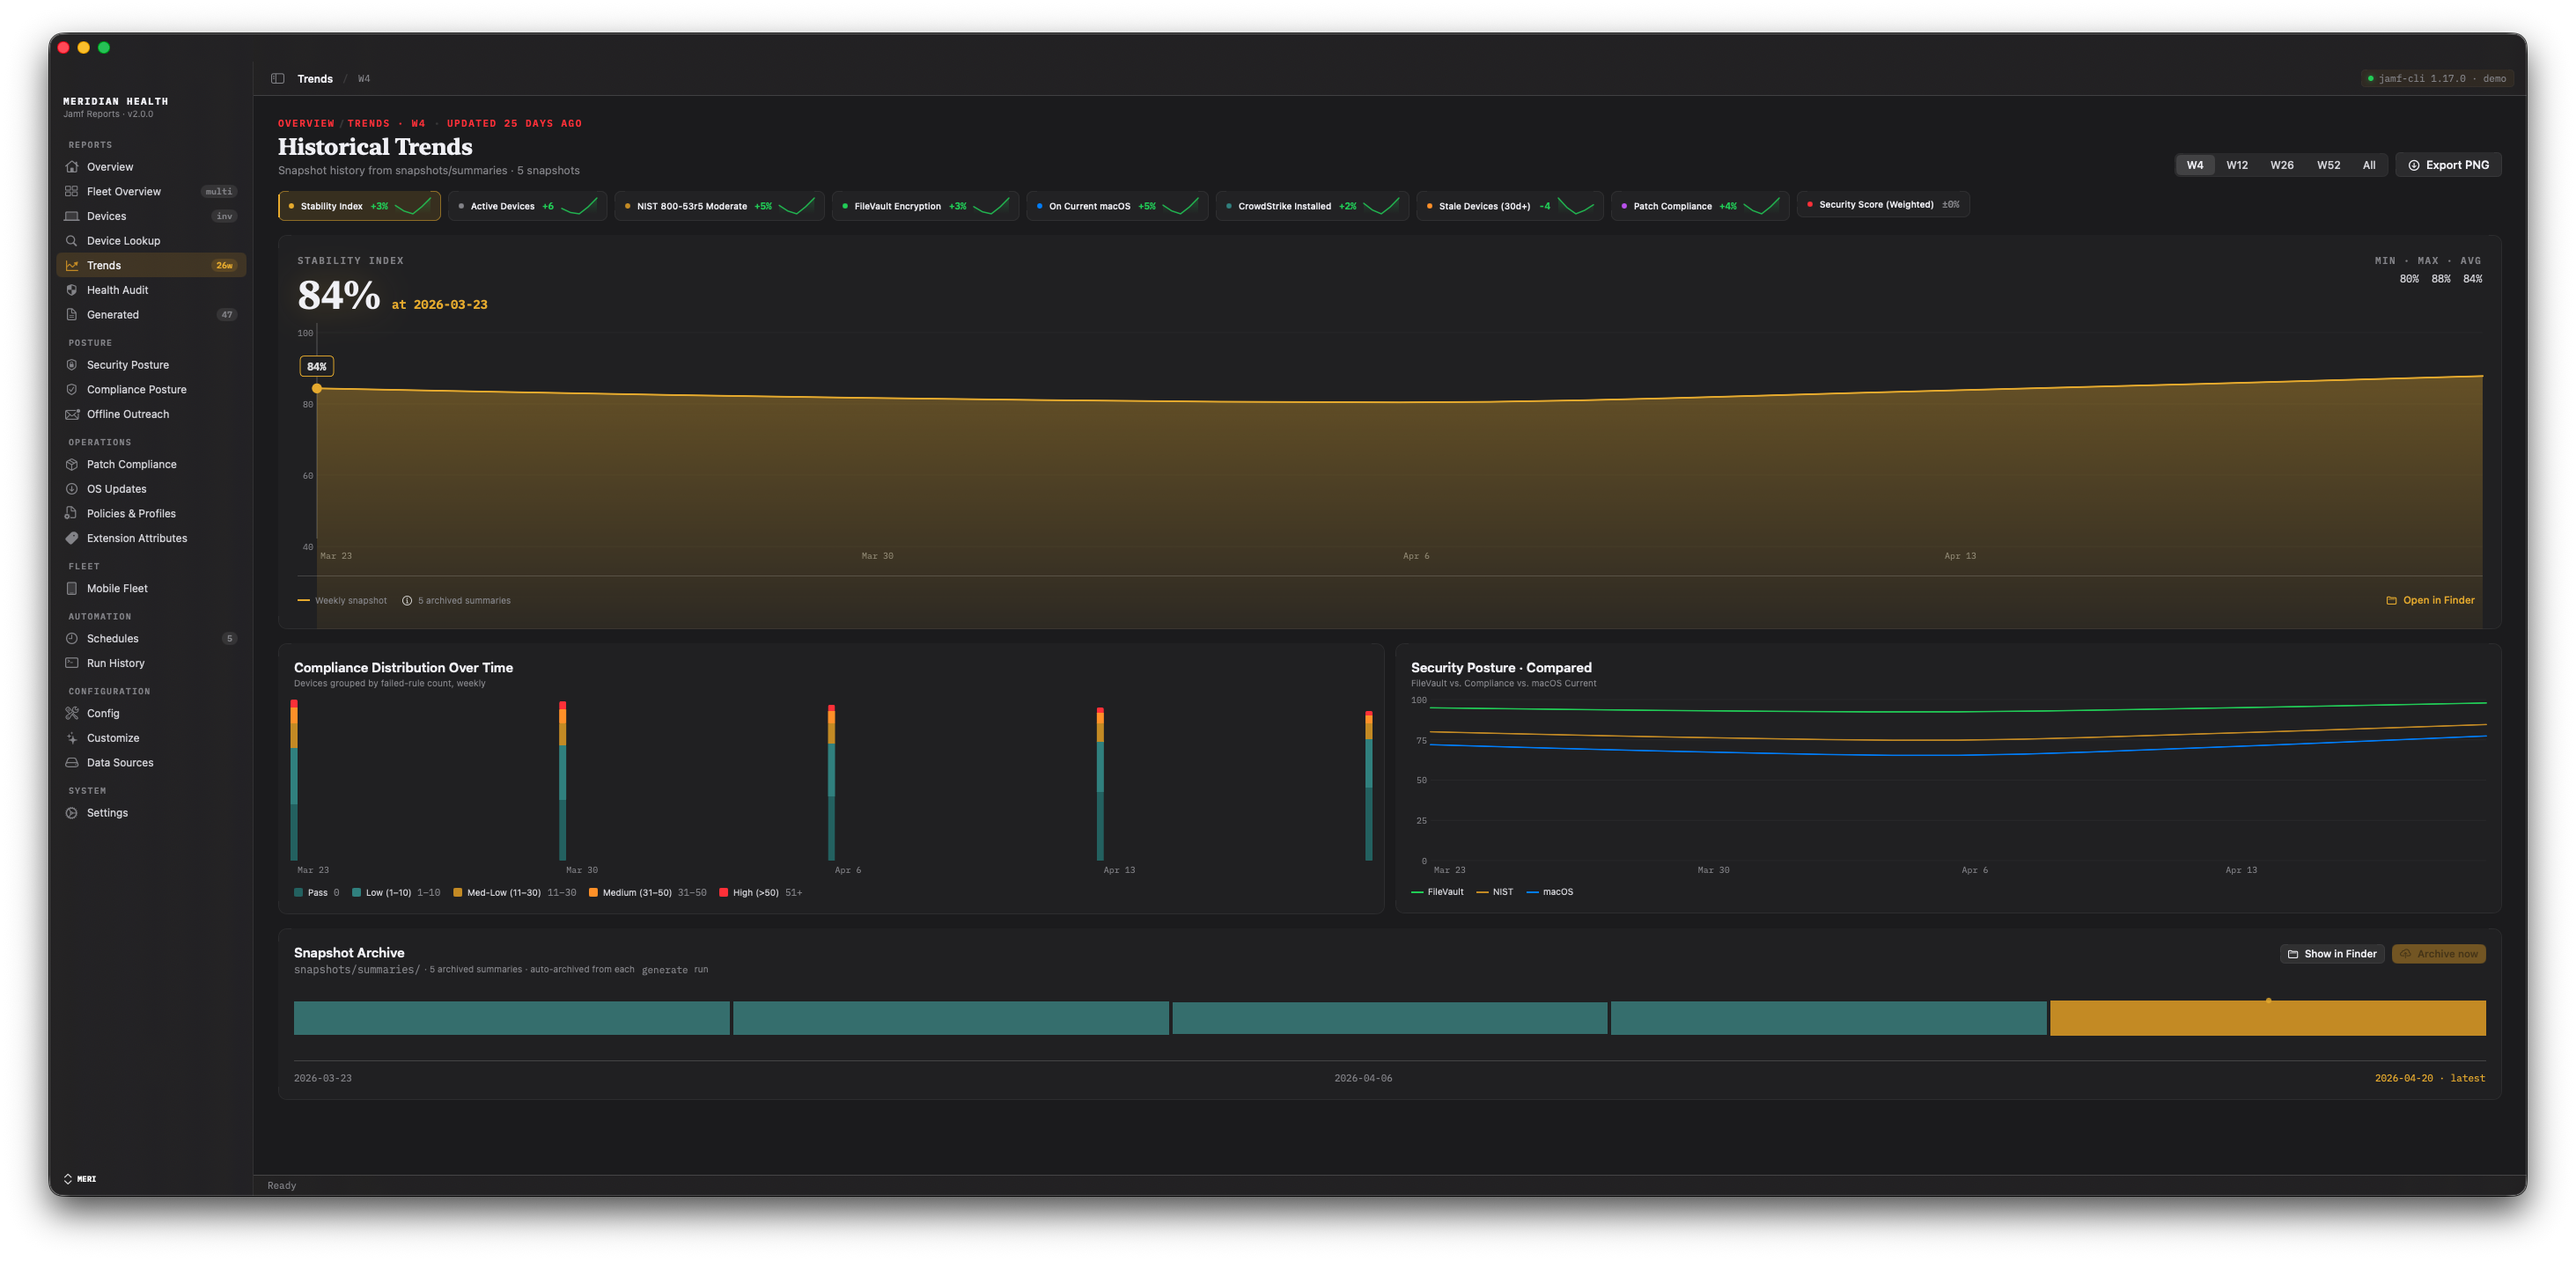
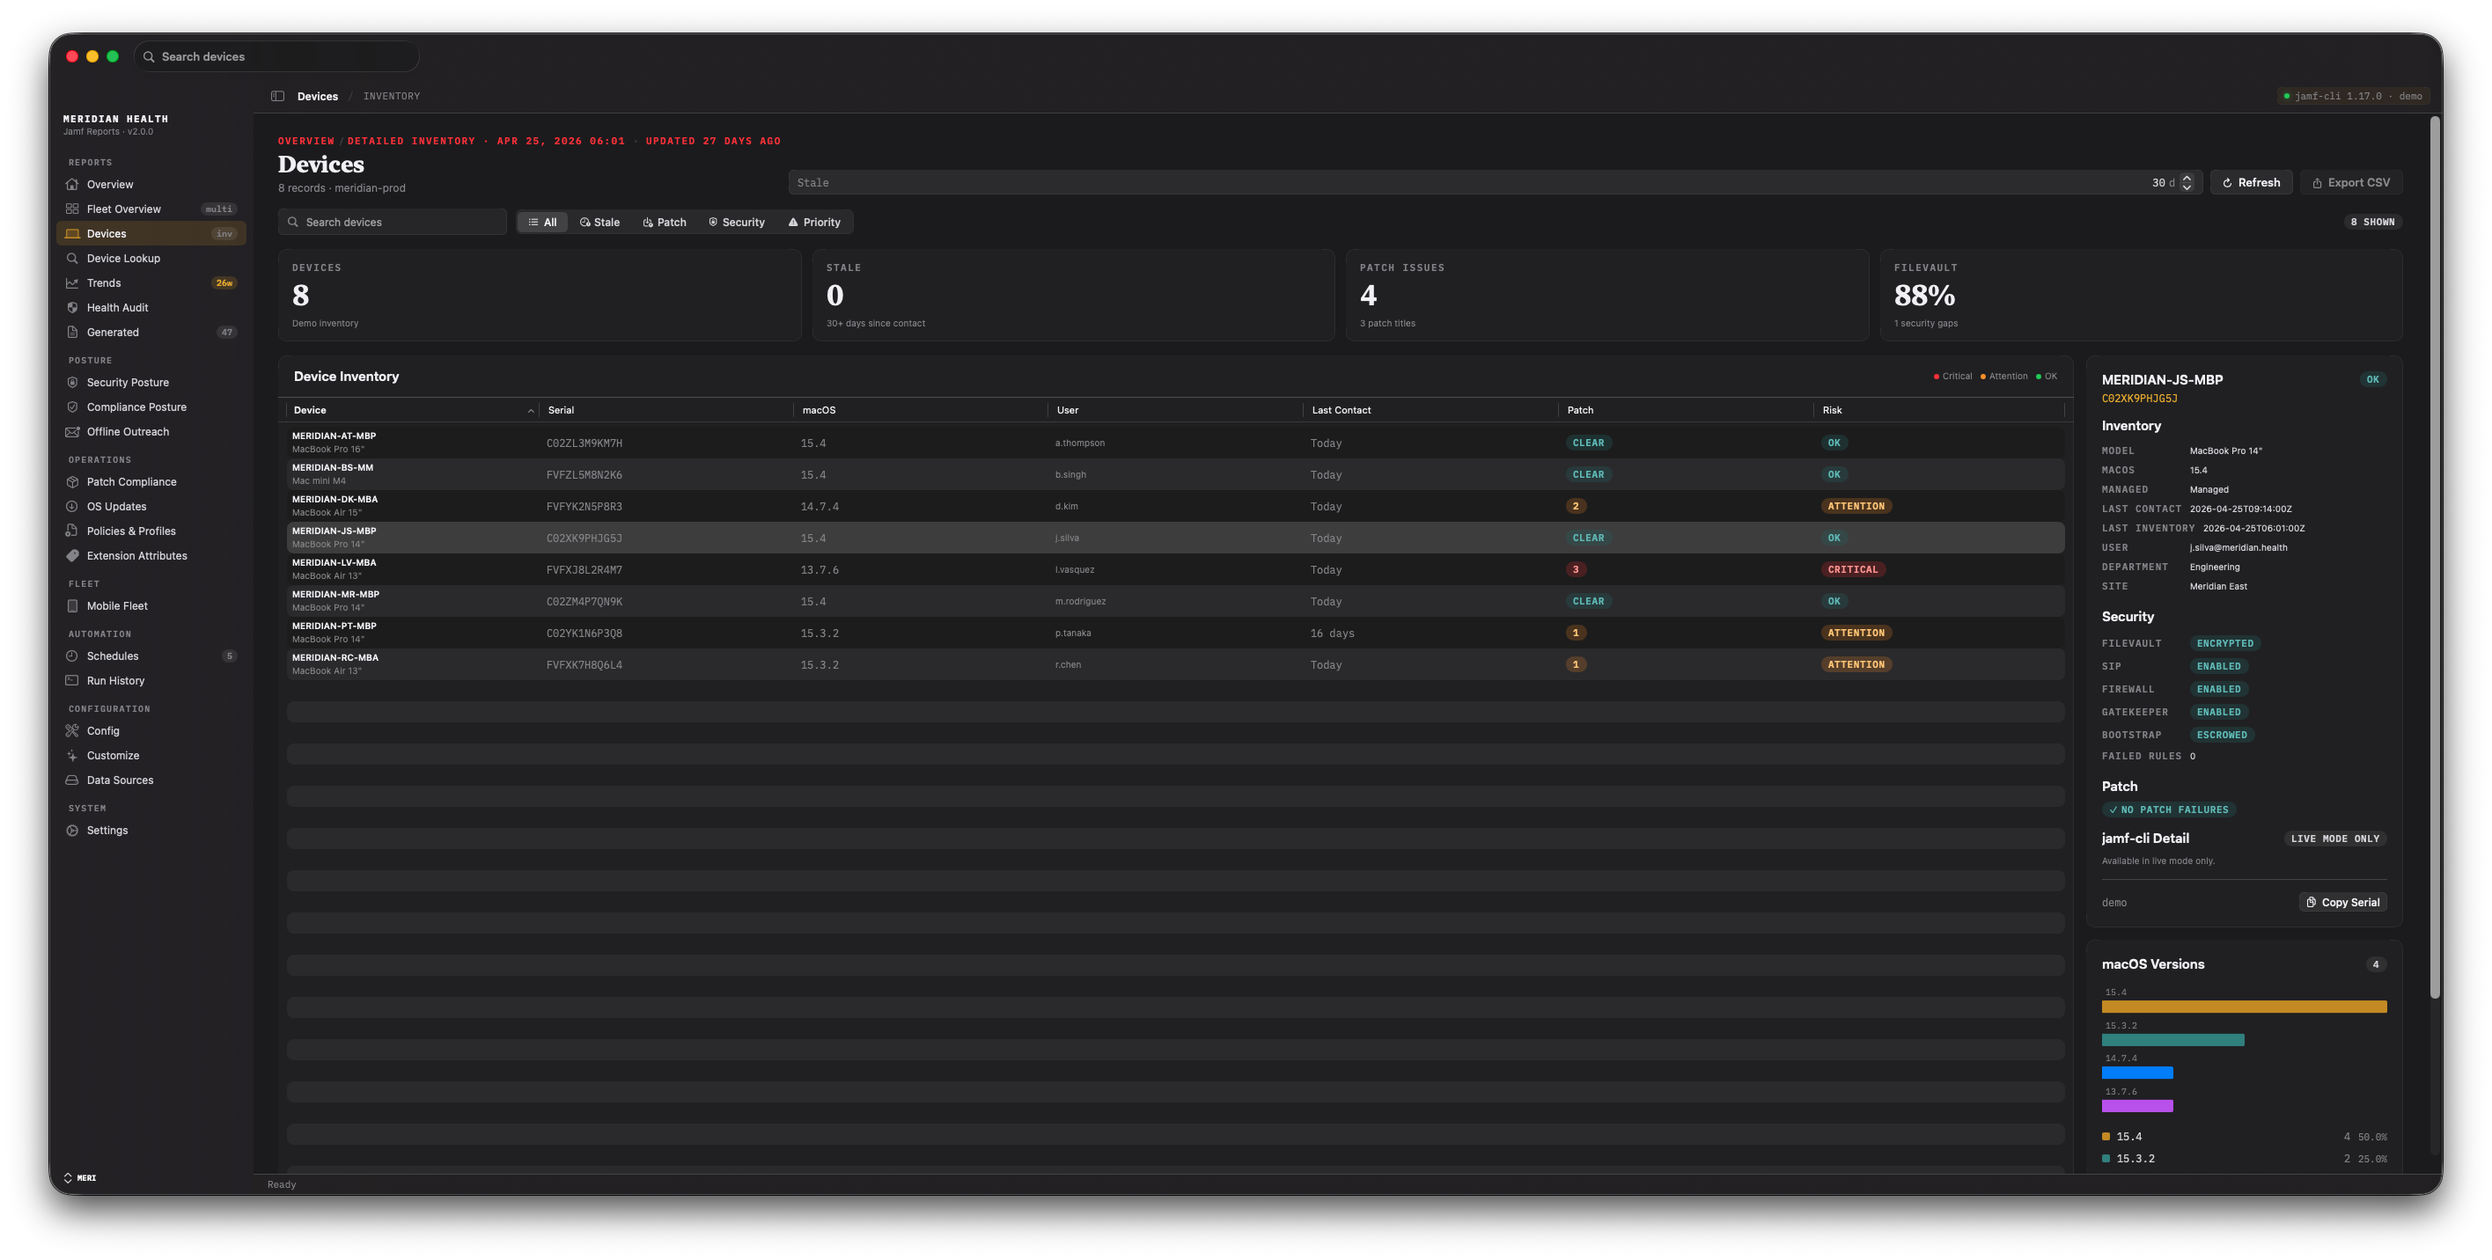
Restructure wiki: front door, sidebar, Installation page
Begins PR-B of the documentation restructure (DOC_RESTRUCTURE_PLAN.md §5).
Replaces the 7 scrambled-name screenshots with the curated v2.0 image set,
rewrites Home.md as an app-first "pick your path" landing page, regroups
_Sidebar.md (macOS app / Python CLI / Reference), and adds the new
01-Installation page (app + jamf-cli install, API permissions, verify).

Remaining PR-B pages (02-09, Glossary) and removal of the old 01-08 pages
land in follow-up commits on this branch before the PR is opened.

diff --git a/docs/wiki/Home.md b/docs/wiki/Home.md
@@ -1,88 +1,65 @@
-# jamf-reports-community Wiki
+# jamf-reports-community
 
-This wiki set is the long-form companion to [README.md](https://github.com/tonyyo11/jamf-reports-community/blob/main/README.md).
+Fleet reporting for Jamf Pro and Jamf School — a native macOS app, with an optional
+Python CLI for headless and automated use. This wiki is the full setup and operating
+guide; the [README](https://github.com/tonyyo11/jamf-reports-community) is the short
+overview.
 
-Use it when you want a full setup and operating guide instead of a quick-start.
+There are two ways to run the project. **The macOS app is the recommended path.** The
+Python CLI is the optional path for headless servers, CI and Linux environments, and
+scripted automation.
 
-![Security Posture Dashboard](./images/security-posture.png)
+![Jamf Reports — Fleet Overview](images/overview.png)
 
-## What This Tool Covers
+## Pick your path
 
-`jamf-reports-community` turns Jamf Pro inventory data into Excel workbooks, charts, and
-repeatable reporting workflows.
+### The macOS app — recommended
 
-It supports these data collection paths:
+A native SwiftUI app (macOS 14+) that collects data, generates reports, schedules
+unattended runs, and tracks fleet health — all from a GUI, with no Python required. Read
+these pages in order:
 
-- Jamf Pro CSV exports
-- `jamf-cli` live data plus cached JSON snapshots
-- Jamf School device CSV exports and `jamf-cli school` live data (jamf-cli 1.7+)
+1. [Installation](01-Installation) — install the app and `jamf-cli`
+2. [App Onboarding](02-App-Onboarding) — the guided first run
+3. [Dashboards](03-App-Dashboards) — a tour of every screen
+4. [Configuration & Templates](04-Configuration-and-Templates) — `config.yaml`, custom EAs, report templates
+5. [Scheduling & Automation](05-Scheduling-and-Automation) — run modes and LaunchAgent jobs
+6. [Historical Trends](06-Historical-Trends) — snapshots and the Trends screen
 
-It is built and tested against Jamf Pro and Jamf School. Jamf Protect support exists as an
-experimental, opt-in `Protect Overview` sheet driven by `jamf-cli 1.6`, but it has not
-been fully validated against a live Protect tenant. Platform API workbook support is
-also available as an opt-in preview when the selected jamf-cli build exposes the new
-`pro report` platform commands.
+### The Python CLI — optional
 
-This project is open sourced intentionally. The goal is to give Mac admins a practical
-starting point they can extend for their own needs, including deeper Jamf Protect or
-Jamf Platform API work.
+A single-file script for headless and automated reporting. Read:
 
-## Suggested Reading Order
+1. [Installation](01-Installation) — the Requirements section
+2. [CLI Workflow](07-CLI-Workflow) — install, commands, the CSV and jamf-cli paths
 
-1. [Setup and Prerequisites](./01-Setup-and-Prerequisites.md)
-2. [Jamf Pro CSV Workflow](./02-Jamf-Pro-CSV-Workflow.md)
-3. [jamf-cli Workflow](./03-jamf-cli-Workflow.md)
-4. [Config and Scaffolding](./04-Config-and-Scaffolding.md)
-5. [Reporting Cadence and Operations](./05-Reporting-Cadence-and-Operations.md)
-6. [Historical Trends and Extensibility](./06-Historical-Trends-and-Extensibility.md)
-7. [LaunchAgent Automation](./07-LaunchAgent-Automation.md)
+### Reference for everyone
 
-## Try It Offline
+- [Jamf School](08-Jamf-School) — if you manage a Jamf School tenant
+- [Diagnostics & Troubleshooting](09-Diagnostics-and-Troubleshooting)
+- [Glossary](Glossary)
 
-No live Jamf tenant needed. The repo includes committed demo fixtures:
+## Try it offline
+
+No live Jamf tenant or credentials needed — the repo ships demo fixtures:
 
 ```bash
-./scripts/demo.sh all
+./scripts/demo.sh          # build every offline demo report
+./scripts/demo.sh html     # or just one: html | xlsx | mobile | school
 ```
 
-This generates an HTML report, Jamf Pro workbook, mobile CSV workbook, and Jamf School
-workbook in `Generated Reports/demo/`. Run `./scripts/demo.sh help` for individual modes.
+Output lands in `Generated Reports/demo/`.
 
-## Choose Your Starting Path
+## What jamf-reports-community does not replace
 
-Use the Jamf Pro CSV workflow when:
-
-- You already export Advanced Search or Search Inventory data
-- You want full control over which extension attributes are present in the dataset
-- You need a familiar, admin-friendly bootstrap path
-
-Use the `jamf-cli` workflow when:
-
-- You want to reduce reliance on Jamf UI exports
-- You want API-driven summary sheets and cached snapshots
-- You want a quick way to build a baseline CSV with `inventory-csv`
-- You want a jamf-cli-only workbook or chart path
-
-## What jamf-reports-community Does Not Replace
-
-If you only need one-off API actions, direct inventory lookups, or broader Jamf
-automation, go straight to `jamf-cli`:
+For one-off API actions, direct inventory lookups, or broader Jamf automation, use
+`jamf-cli` directly:
 
 - [Jamf Concepts jamf-cli site](https://concepts.jamf.com/jamf-cli/)
 - [jamf-cli Documentation Wiki](https://github.com/Jamf-Concepts/jamf-cli/wiki)
 - [jamf-cli README](https://github.com/Jamf-Concepts/jamf-cli)
 - [jamf-cli Setup Guide](https://github.com/Jamf-Concepts/jamf-cli/wiki/Setup-Guide)
 - [jamf-cli Configuration & Profiles](https://github.com/Jamf-Concepts/jamf-cli/wiki/Configuration-&-Profiles)
-- [jamf-cli Command Reference](https://github.com/Jamf-Concepts/jamf-cli/wiki/Command-Reference)
-- [jamf-cli Common Workflows](https://github.com/Jamf-Concepts/jamf-cli/wiki/Common-Workflows)
 
 Use `jamf-reports-community` when the goal is recurring reporting, workbook generation,
 visualization, or historical snapshots.
-
-If your real objective is historical reporting, read the historical-trends page before
-you automate anything. The quality of your charts depends on how intentionally you save
-point-in-time snapshots.
-
-If you want those snapshots and workbooks to happen on a real cadence, read the
-LaunchAgent automation page next. That is the recommended local-macOS scheduling model
-for this project.

diff --git a/docs/wiki/01-Installation.md b/docs/wiki/01-Installation.md
@@ -1,0 +1,102 @@
+# Installation
+
+This page covers installing the macOS app and `jamf-cli`. The Python CLI's own
+prerequisites (Python and packages) are on the [CLI Workflow](07-CLI-Workflow) page.
+
+## Requirements
+
+| Component | Requirement |
+|---|---|
+| macOS | 14 (Sonoma) or later — to run the app |
+| jamf-cli | v1.16.1 or later — optional; powers live collection |
+| Xcode | 16 or later — only needed to build the app from source |
+
+`jamf-cli` is optional. The app and the Python CLI both work from a Jamf Pro CSV export
+and cached snapshots with no jamf-cli installed — jamf-cli adds live collection and the
+API-driven dashboards.
+
+## Install the macOS app
+
+The macOS app is the recommended way to use this project.
+
+**Download a build.** Get the latest `JamfReports.app` from the
+[Releases page](https://github.com/tonyyo11/jamf-reports-community/releases). Release
+builds are ad-hoc signed for local use.
+
+**Or build from source.** The app is a SwiftPM project (no `.xcodeproj`):
+
+```bash
+cd app
+./build-app.sh release      # → app/build/JamfReports.app
+```
+
+Full build instructions — including the bundled Python runtime and Developer ID signing
+for wider distribution — are in
+[`app/README.md`](https://github.com/tonyyo11/jamf-reports-community/blob/main/app/README.md).
+
+## Install jamf-cli
+
+`jamf-cli` is Jamf's official command-line interface for Jamf Pro. Install it with
+Homebrew:
+
+```bash
+brew install Jamf-Concepts/tap/jamf-cli
+```
+
+Pre-built binaries are also available from the
+[jamf-cli releases](https://github.com/Jamf-Concepts/jamf-cli/releases).
+
+Authenticate against your Jamf Pro instance:
+
+```bash
+jamf-cli pro setup --url https://your-instance.jamfcloud.com
+```
+
+Follow the prompts. `jamf-cli pro setup` can create an API client for you — choose the
+**read-only** scope when offered, since this project only reads data. Credentials are
+stored in the macOS keychain, not in shell history.
+
+If you use the Jamf Platform API, jamf-cli also offers `jamf-cli platform setup`, which
+creates a Platform Gateway profile that enables both the Pro and Platform API command
+sets. When you run multiple Jamf Pro instances, give each its own profile and select it
+with `jamf-cli -p <profile>`.
+
+## Jamf Pro API permissions
+
+If you create the API role yourself rather than letting `jamf-cli pro setup` do it, the
+client needs only read access. A dedicated role with these privileges is enough:
+
+| Resource | Privilege |
+|---|---|
+| Computers | Read |
+| Mobile Devices | Read |
+| Mobile Device Configuration Profiles | Read |
+| Computer Extension Attributes | Read |
+| Policies | Read |
+| Patch Management | Read |
+| Mobile Device Applications | Read |
+| Managed Software Updates | Read |
+| Computer Groups | Read |
+
+This is the minimum read-only set the project's reports need. jamf-cli itself does not
+publish a canonical required-privileges list — Jamf's
+[Privileges and Deprecations](https://developer.jamf.com/jamf-pro/docs/privileges-and-deprecations)
+reference is the authoritative privilege catalog. Do not use a full-administrator API
+client for scheduled reporting.
+
+## Verify
+
+Confirm a profile resolves and authenticates:
+
+```bash
+jamf-cli config validate -p <profile>
+```
+
+A clean exit means the app and CLI can collect live data. If `jamf-cli` is missing or
+unauthenticated, both still run from CSV exports and cached snapshots — the live
+dashboards are simply skipped.
+
+## Next
+
+- App users: continue to [App Onboarding](02-App-Onboarding).
+- CLI users: continue to [CLI Workflow](07-CLI-Workflow).

diff --git a/docs/wiki/_Sidebar.md b/docs/wiki/_Sidebar.md
@@ -1,11 +1,22 @@
 ### jamf-reports-community
 
-- [Home](Home)
-- [Setup and Prerequisites](01-Setup-and-Prerequisites)
-- [Jamf Pro CSV Workflow](02-Jamf-Pro-CSV-Workflow)
-- [jamf-cli Workflow](03-jamf-cli-Workflow)
-- [Config and Scaffolding](04-Config-and-Scaffolding)
-- [Reporting Cadence and Operations](05-Reporting-Cadence-and-Operations)
-- [Historical Trends and Extensibility](06-Historical-Trends-and-Extensibility)
-- [LaunchAgent Automation](07-LaunchAgent-Automation)
-- [Jamf School Workflow](08-Jamf-School-Workflow)
+[Home](Home)
+
+### macOS app
+
+- [Installation](01-Installation)
+- [App Onboarding](02-App-Onboarding)
+- [Dashboards](03-App-Dashboards)
+- [Configuration & Templates](04-Configuration-and-Templates)
+- [Scheduling & Automation](05-Scheduling-and-Automation)
+- [Historical Trends](06-Historical-Trends)
+
+### Python CLI
+
+- [CLI Workflow](07-CLI-Workflow)
+
+### Reference
+
+- [Jamf School](08-Jamf-School)
+- [Diagnostics & Troubleshooting](09-Diagnostics-and-Troubleshooting)
+- [Glossary](Glossary)
